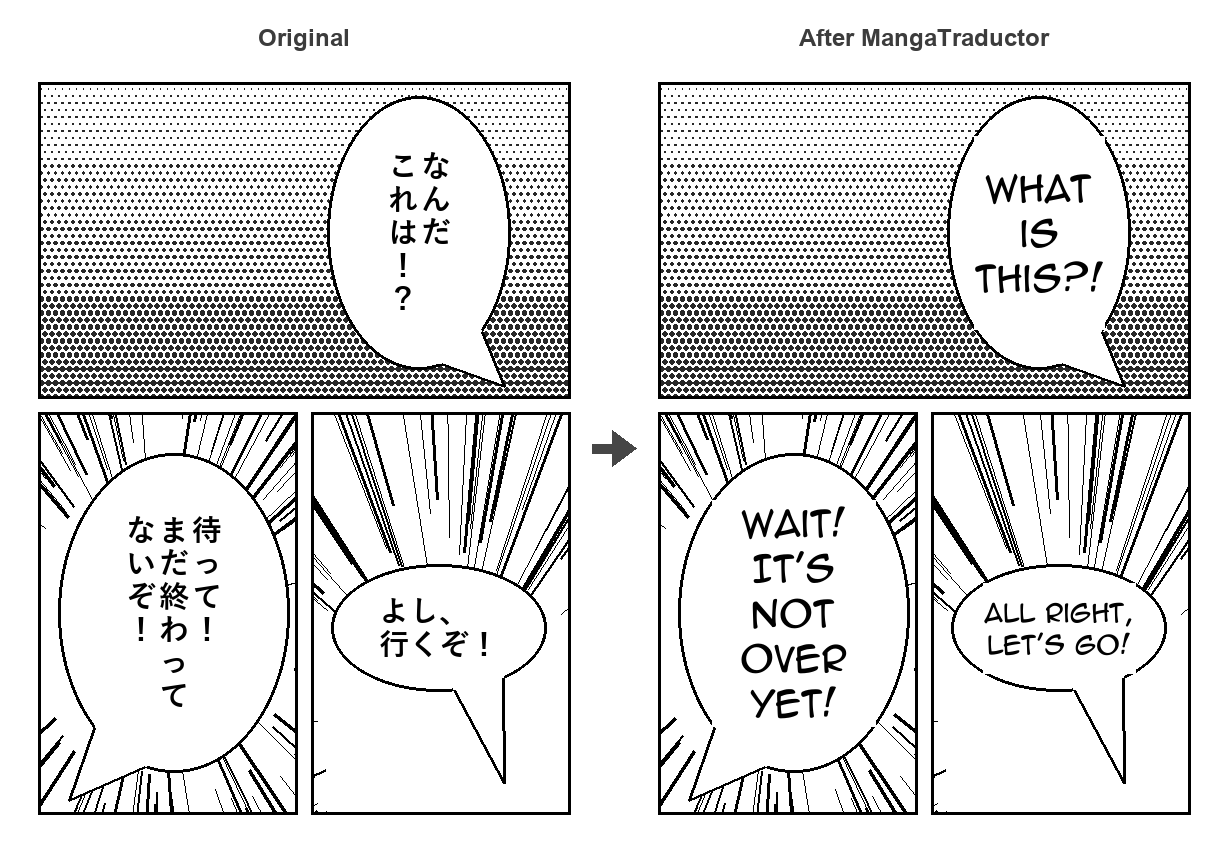
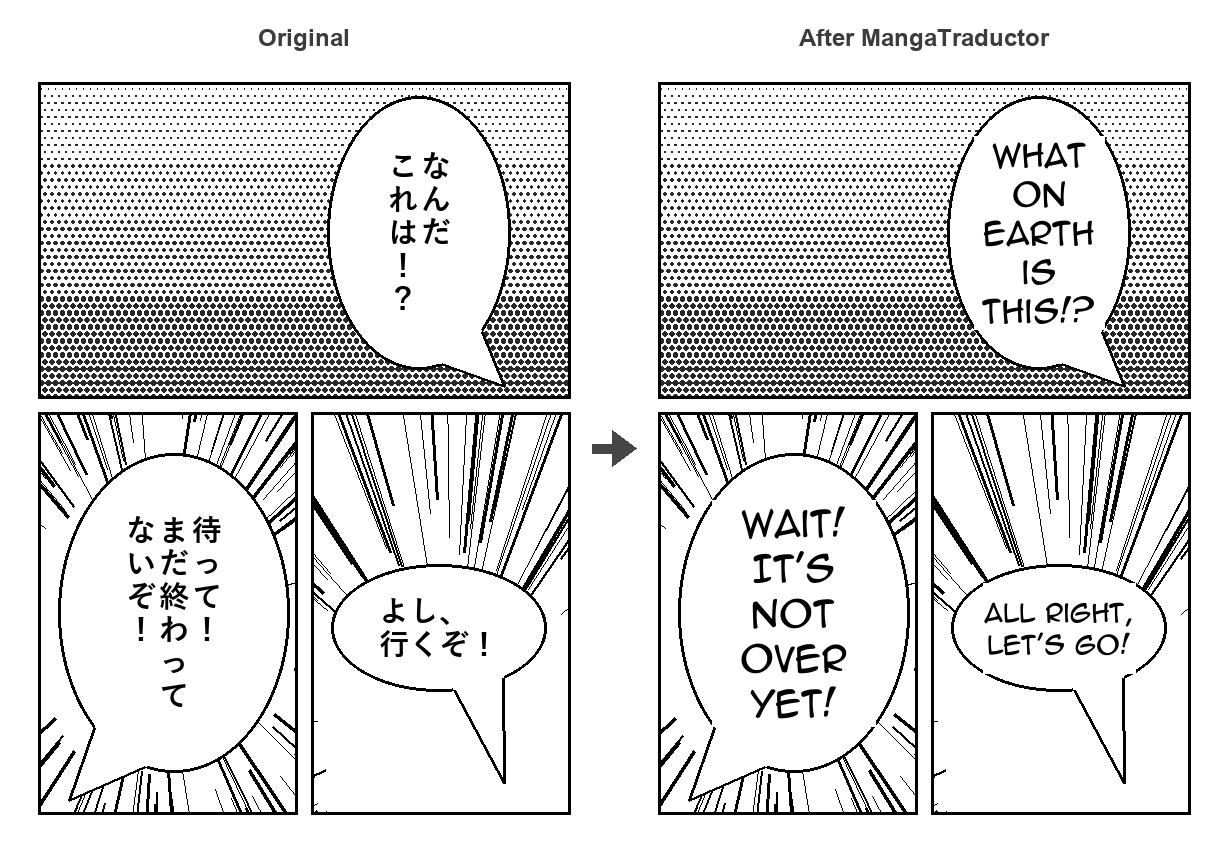
Regenerate the README demo with DeepL translations
Now that DeepL has been tested with a real key, rebuild docs/demo.png
with `python docs/make_demo.py`, so the English lines come from DeepL
instead of the script's reference translations, and drop the caption
note that said otherwise.

Tested end to end: `mangatraductor check-key` passes on the free
endpoint, and running `mangatraductor ocr` twice on the demo bubbles
translated them to Spanish, with the second run served from the cache.

Changed region(s): [[0.7736, 0.1526, 0.8974, 0.3967]]

diff --git a/README.md b/README.md
@@ -7,9 +7,8 @@ Select a bubble with the mouse → the text is recognized with a manga-specific 
 ![Before and after: Japanese speech bubbles replaced by typeset English translations](docs/demo.png)
 
 <sub>Sample page drawn for this README (no copyrighted manga). Each bubble, vertical or horizontal,
-was read by the real OCR model and typeset by the app's renderer; the English lines are the
-script's reference translations. Regenerate it with `python docs/make_demo.py` (uses DeepL when
-a key is configured).</sub>
+was read by the real OCR model, translated by DeepL and typeset by the app's renderer.
+Regenerate it with `python docs/make_demo.py`.</sub>
 
 ## Features
 

diff --git a/CHANGELOG.md b/CHANGELOG.md
@@ -10,7 +10,8 @@
   **Clear translation cache** button in the app's API Key Settings.
 - The CLI summary and the app log say when a translation came from the cache.
 - Before/after image in the README, built by `docs/make_demo.py`: it draws a sample page
-  (no copyrighted manga), reads each bubble with the real OCR model and typesets the result.
+  (no copyrighted manga), reads each bubble with the real OCR model, translates it with DeepL
+  and typesets the result.
 
 ### Fixed
 - The `ocr` extra now installs `fugashi` and `unidic-lite`, which the model's Japanese
